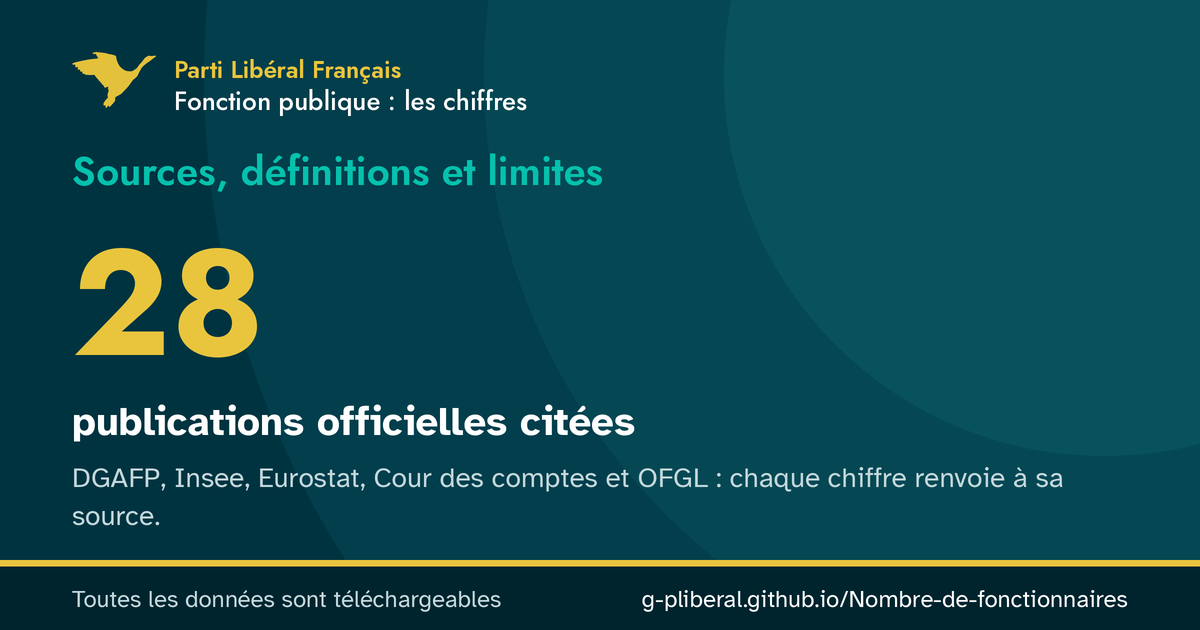
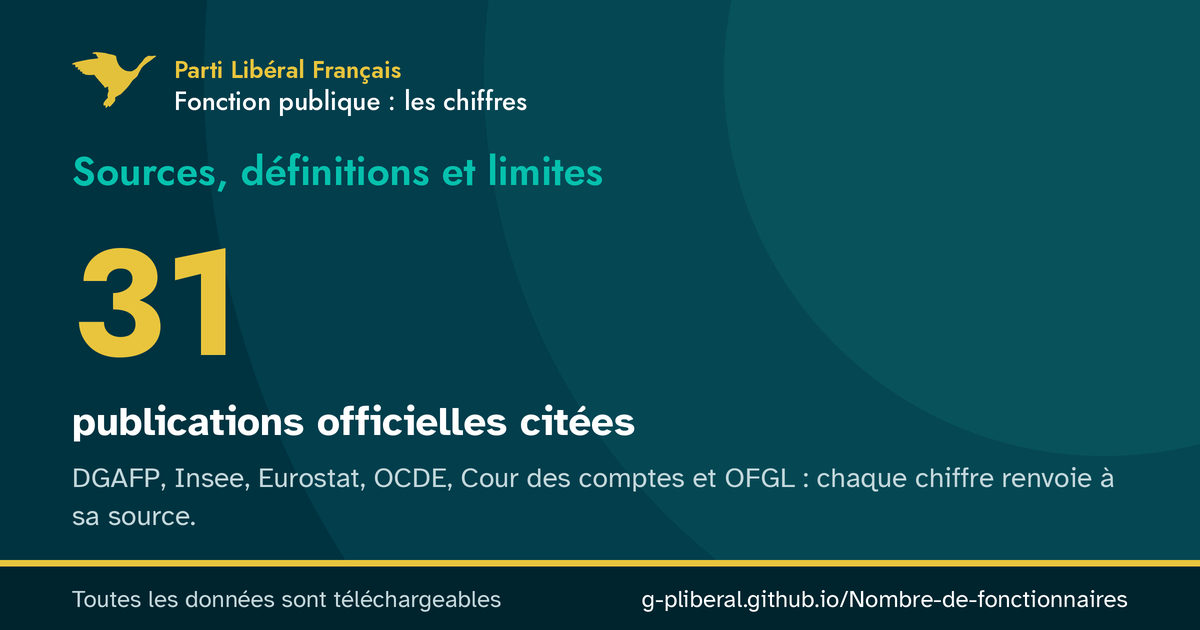
En Europe : chiffres de la page reliés à construire_donnees.py, image de partage, test d'accessibilité
- Descriptions de partage (data-modele), date du pied de page et effectif DGAFP
  contrats aidés compris (nouvelle clé large_fp_millions, calculée depuis le CSV DGAFP)
  remplis par le script, comme sur les autres pages.
- Image de partage de la page (chiffres lus dans donnees/site/europe.js).
- europe.html ajoutée au test d'accessibilité.
- Suppression d'une définition en double de lire_js().

Claude-Session: https://claude.ai/code/session_01FVFLAiLkMjKCEYqN1RL9PT

Changed region(s): [[0.3083, 0.7238, 0.925, 0.7841], [0.0617, 0.3921, 0.2158, 0.573], [0.0617, 0.8143, 0.1542, 0.8444]]

diff --git a/donnees/site/national.js b/donnees/site/national.js
@@ -1,3 +1,3 @@
 /* Fichier généré par outils/construire_donnees.py — ne pas modifier à la main. */
 window.PLF_DONNEES = window.PLF_DONNEES || {};
[2 lines of base64/hex data omitted]

diff --git a/europe.html b/europe.html
@@ -4,12 +4,24 @@
 <meta charset="utf-8">
 <meta name="viewport" content="width=device-width, initial-scale=1">
 <title>L'emploi public en France et en Europe – Fonction publique : les chiffres</title>
-<meta name="description" content="En 2024, les administrations publiques emploient 20,9 % des personnes en emploi en France, 11,9 % en Allemagne et 28,4 % en Suède : comparaison européenne de l'emploi public d'après l'OCDE et Eurostat, sur un périmètre commun, avec ses limites.">
+<meta name="description" content="En 2024, les administrations publiques emploient 20,9 % des personnes en emploi en France, 11,9 % en Allemagne et 28,4 % en Suède : comparaison européenne de l'emploi public d'après l'OCDE et Eurostat, sur un périmètre commun, avec ses limites." data-modele="En {eu_annee}, les administrations publiques emploient {eu_fr_part} des personnes en emploi en France, {eu_de_part} en Allemagne et {eu_se_part} en Suède : comparaison européenne de l'emploi public d'après l'OCDE et Eurostat, sur un périmètre commun, avec ses limites.">
 <meta name="theme-color" content="#003340">
 <meta property="og:title" content="Plus d'agents publics que nos voisins ?">
-<meta property="og:description" content="En 2024, les administrations publiques emploient 20,9 % des personnes en emploi en France, 11,9 % en Allemagne et 28,4 % en Suède : comparaison européenne de l'emploi public d'après l'OCDE et Eurostat, sur un périmètre commun, avec ses limites.">
+<meta property="og:description" content="En 2024, les administrations publiques emploient 20,9 % des personnes en emploi en France, 11,9 % en Allemagne et 28,4 % en Suède : comparaison européenne de l'emploi public d'après l'OCDE et Eurostat, sur un périmètre commun, avec ses limites." data-modele="En {eu_annee}, les administrations publiques emploient {eu_fr_part} des personnes en emploi en France, {eu_de_part} en Allemagne et {eu_se_part} en Suède : comparaison européenne de l'emploi public d'après l'OCDE et Eurostat, sur un périmètre commun, avec ses limites.">
 <meta property="og:type" content="website">
 <meta property="og:locale" content="fr_FR">
+<!-- partage:debut -->
+<meta property="og:site_name" content="Fonction publique : les chiffres">
+<meta property="og:url" content="https://g-pliberal.github.io/Nombre-de-fonctionnaires/europe.html">
+<meta property="og:image" content="https://g-pliberal.github.io/Nombre-de-fonctionnaires/assets/img/partage/europe.png">
+<meta property="og:image:type" content="image/png">
+<meta property="og:image:width" content="1200">
+<meta property="og:image:height" content="630">
+<meta property="og:image:alt" content="Plus d&#x27;agents publics que nos voisins ? 20,9 % de l&#x27;emploi est dans les administrations publiques en France (2024). 11,9 % en Allemagne, 28,4 % en Suède. France : 8e sur 25.">
+<meta name="twitter:card" content="summary_large_image">
+<meta name="twitter:image" content="https://g-pliberal.github.io/Nombre-de-fonctionnaires/assets/img/partage/europe.png">
+<meta name="twitter:image:alt" content="Plus d&#x27;agents publics que nos voisins ? 20,9 % de l&#x27;emploi est dans les administrations publiques en France (2024). 11,9 % en Allemagne, 28,4 % en Suède. France : 8e sur 25.">
+<!-- partage:fin -->
 <link rel="icon" href="assets/img/logo-plf.svg" type="image/svg+xml">
 <link rel="preload" href="assets/fonts/jost-latin-variable.woff2" as="font" type="font/woff2" crossorigin>
 <link rel="stylesheet" href="assets/css/style.css">
@@ -189,7 +201,7 @@
     <h2 id="titre-perimetre">Ce que l'on compare… et ce que l'on ne compare pas</h2>
     <ul class="liste-lecture">
       <li><strong>Pas les «&nbsp;fonctionnaires&nbsp;», mais les administrations publiques.</strong> Le statut de fonctionnaire n'existe pas partout et n'a pas le même sens d'un pays à l'autre. La seule définition commune est celle des comptes nationaux (système européen des comptes SEC 2010)&nbsp;: les «&nbsp;administrations publiques&nbsp;» regroupent l'État, les collectivités locales et la sécurité sociale, ainsi que les organismes qu'ils contrôlent et qui ne vendent pas leurs services. Tous les salariés en font partie, fonctionnaires ou non.</li>
-      <li><strong>Un périmètre plus large que la fonction publique française.</strong> Pour la France, l'OCDE reprend les chiffres de l'Insee&nbsp;: <span data-cle="eu_fr_emploi">6,41 millions</span> de personnes en <span data-cle="eu_annee">2024</span>, contre 5,87 millions d'agents de la fonction publique (contrats aidés compris) fin 2024 selon la DGAFP. Les comptes nationaux comptent en plus notamment les salariés des caisses de sécurité sociale (CAF, CPAM…) et d'autres organismes publics hors fonction publique, et mesurent l'emploi en moyenne sur l'année. <a href="index.html#au-dela">L'emploi public au sens large</a>.</li>
+      <li><strong>Un périmètre plus large que la fonction publique française.</strong> Pour la France, l'OCDE reprend les chiffres de l'Insee&nbsp;: <span data-cle="eu_fr_emploi">6,41 millions</span> de personnes en <span data-cle="eu_annee">2024</span>, contre <span data-cle="large_fp_millions">5,87 millions</span> d'agents de la fonction publique (contrats aidés compris) fin <span data-cle="large_annee">2024</span> selon la DGAFP. Les comptes nationaux comptent en plus notamment les salariés des caisses de sécurité sociale (CAF, CPAM…) et d'autres organismes publics hors fonction publique, et mesurent l'emploi en moyenne sur l'année. <a href="index.html#au-dela">L'emploi public au sens large</a>.</li>
       <li><strong>Les entreprises publiques ne sont comptées nulle part.</strong> SNCF, La Poste, EDF ou leurs équivalents étrangers sont des entreprises&nbsp;: leurs salariés ne font pas partie des administrations publiques, quel que soit le pays.</li>
       <li><strong>Une même mission peut être publique ici et privée ailleurs.</strong> Hôpitaux, écoles, maisons de retraite ou aide sociale sont, selon les pays, gérés par des administrations ou par des organismes privés (associations, fondations, entreprises) financés sur fonds publics. Seuls les premiers sont comptés. Un pays qui confie ces services à des organismes privés affiche moins d'emplois publics sans forcément dépenser moins&nbsp;: comparer aussi les <a href="masse-salariale.html#europe">rémunérations publiques en % du PIB</a>.</li>
       <li><strong>Des personnes, pas des équivalents temps plein.</strong> Un agent à mi-temps compte pour un. Les pays où le temps partiel est fréquent dans le secteur public paraissent donc un peu plus administrés qu'ils ne le seraient en équivalents temps plein&nbsp;; la série de l'OCDE est exprimée en personnes pour tous les pays.</li>
@@ -236,7 +248,7 @@
       </div>
     </div>
     <div class="pied__bas">
-      <span>Données mises à jour le 5 novembre 2026. Contenus réutilisables en citant la source.</span>
+      <span>Données mises à jour le <span data-cle="date_maj">15 novembre 2026</span>. Contenus réutilisables en citant la source.</span>
       <span><a href="methode.html#accessibilite">Accessibilité : partiellement conforme</a> · Aucun cookie, aucun traceur</span>
     </div>
   </div>

diff --git a/methode.html b/methode.html
@@ -17,10 +17,10 @@
 <meta property="og:image:type" content="image/png">
 <meta property="og:image:width" content="1200">
 <meta property="og:image:height" content="630">
-<meta property="og:image:alt" content="Sources, définitions et limites 28 publications officielles citées. DGAFP, Insee, Eurostat, Cour des comptes et OFGL : chaque chiffre renvoie à sa source.">
+<meta property="og:image:alt" content="Sources, définitions et limites 31 publications officielles citées. DGAFP, Insee, Eurostat, OCDE, Cour des comptes et OFGL : chaque chiffre renvoie à sa source.">
 <meta name="twitter:card" content="summary_large_image">
 <meta name="twitter:image" content="https://g-pliberal.github.io/Nombre-de-fonctionnaires/assets/img/partage/methode.png">
-<meta name="twitter:image:alt" content="Sources, définitions et limites 28 publications officielles citées. DGAFP, Insee, Eurostat, Cour des comptes et OFGL : chaque chiffre renvoie à sa source.">
+<meta name="twitter:image:alt" content="Sources, définitions et limites 31 publications officielles citées. DGAFP, Insee, Eurostat, OCDE, Cour des comptes et OFGL : chaque chiffre renvoie à sa source.">
 <!-- partage:fin -->
 <link rel="icon" href="assets/img/logo-plf.svg" type="image/svg+xml">
 <link rel="preload" href="assets/fonts/jost-latin-variable.woff2" as="font" type="font/woff2" crossorigin>
@@ -424,7 +424,7 @@
       </div>
     </div>
     <div class="pied__bas">
-      <span>Données mises à jour le <span data-cle="date_maj">5 novembre 2026</span>. Contenus réutilisables en citant la source.</span>
+      <span>Données mises à jour le <span data-cle="date_maj">15 novembre 2026</span>. Contenus réutilisables en citant la source.</span>
       <span><a href="methode.html#accessibilite">Accessibilité : partiellement conforme</a> · Aucun cookie, aucun traceur</span>
     </div>
   </div>

diff --git a/carte.html b/carte.html
@@ -155,7 +155,7 @@
       </div>
     </div>
     <div class="pied__bas">
-      <span>Données mises à jour le <span data-cle="date_maj">5 novembre 2026</span>. Contenus réutilisables en citant la source.</span>
+      <span>Données mises à jour le <span data-cle="date_maj">15 novembre 2026</span>. Contenus réutilisables en citant la source.</span>
       <span><a href="methode.html#accessibilite">Accessibilité : partiellement conforme</a> · Aucun cookie, aucun traceur</span>
     </div>
   </div>

diff --git a/composition.html b/composition.html
@@ -204,7 +204,7 @@
       </div>
     </div>
     <div class="pied__bas">
-      <span>Données mises à jour le <span data-cle="date_maj">5 novembre 2026</span>. Contenus réutilisables en citant la source.</span>
+      <span>Données mises à jour le <span data-cle="date_maj">15 novembre 2026</span>. Contenus réutilisables en citant la source.</span>
       <span><a href="methode.html#accessibilite">Accessibilité : partiellement conforme</a> · Aucun cookie, aucun traceur</span>
     </div>
   </div>

diff --git a/evolution.html b/evolution.html
@@ -180,7 +180,7 @@
       </div>
     </div>
     <div class="pied__bas">
-      <span>Données mises à jour le <span data-cle="date_maj">5 novembre 2026</span>. Contenus réutilisables en citant la source.</span>
+      <span>Données mises à jour le <span data-cle="date_maj">15 novembre 2026</span>. Contenus réutilisables en citant la source.</span>
       <span><a href="methode.html#accessibilite">Accessibilité : partiellement conforme</a> · Aucun cookie, aucun traceur</span>
     </div>
   </div>

diff --git a/index.html b/index.html
@@ -339,7 +339,7 @@
       </div>
     </div>
     <div class="pied__bas">
-      <span>Données mises à jour le <span data-cle="date_maj">5 novembre 2026</span>. Contenus réutilisables en citant la source.</span>
+      <span>Données mises à jour le <span data-cle="date_maj">15 novembre 2026</span>. Contenus réutilisables en citant la source.</span>
       <span><a href="methode.html#accessibilite">Accessibilité : partiellement conforme</a> · Aucun cookie, aucun traceur</span>
     </div>
   </div>

diff --git a/masse-salariale.html b/masse-salariale.html
@@ -552,7 +552,7 @@
       </div>
     </div>
     <div class="pied__bas">
-      <span>Données mises à jour le <span data-cle="date_maj">5 novembre 2026</span>. Contenus réutilisables en citant la source.</span>
+      <span>Données mises à jour le <span data-cle="date_maj">15 novembre 2026</span>. Contenus réutilisables en citant la source.</span>
       <span><a href="methode.html#accessibilite">Accessibilité : partiellement conforme</a> · Aucun cookie, aucun traceur</span>
     </div>
   </div>

diff --git a/retraites.html b/retraites.html
@@ -366,7 +366,7 @@
       </div>
     </div>
     <div class="pied__bas">
-      <span>Données mises à jour le <span data-cle="date_maj">5 novembre 2026</span>. Contenus réutilisables en citant la source.</span>
+      <span>Données mises à jour le <span data-cle="date_maj">15 novembre 2026</span>. Contenus réutilisables en citant la source.</span>
       <span><a href="methode.html#accessibilite">Accessibilité : partiellement conforme</a> · Aucun cookie, aucun traceur</span>
     </div>
   </div>

diff --git a/salaires.html b/salaires.html
@@ -336,7 +336,7 @@
       </div>
     </div>
     <div class="pied__bas">
-      <span>Données mises à jour le <span data-cle="date_maj">5 novembre 2026</span>. Contenus réutilisables en citant la source.</span>
+      <span>Données mises à jour le <span data-cle="date_maj">15 novembre 2026</span>. Contenus réutilisables en citant la source.</span>
       <span><a href="methode.html#accessibilite">Accessibilité : partiellement conforme</a> · Aucun cookie, aucun traceur</span>
     </div>
   </div>

diff --git a/outils/images_partage.py b/outils/images_partage.py
@@ -92,9 +92,11 @@ def cartes() -> dict:
     N = lire_site("national")
     M = lire_site("masse_salariale")
     R = lire_site("retraites")
+    U = lire_site("europe")
     D = lire_site("departements")
     n, m, r = Cles("national", N["cles"]), Cles("masse_salariale", M["cles"]), Cles("retraites", R["cles"])
     d = Cles("departements", D["cles"])
+    u = Cles("europe", U["cles"])
 
     def grand(texte):
         """« 5,85 millions » -> ("5,85", "millions")."""
@@ -158,6 +160,13 @@ def cartes() -> dict:
         libelle=f"d'euros de pensions versées en {r['rt_annee']}",
         detail=f"État, collectivités et hôpitaux : {r['rt_pct_pib']} du PIB.",
         source="Source : DGAFP",
+    )
+    c["europe"] = dict(
+        question="Plus d'agents publics que nos voisins ?",
+        valeur=(u["eu_fr_part"], ""),
+        libelle=f"de l'emploi est dans les administrations publiques en France ({u['eu_annee']})",
+        detail=f"{u['eu_de_part']} en Allemagne, {u['eu_se_part']} en Suède. France : {u['eu_fr_rang_part']}.",
+        source="Sources : OCDE, Eurostat, Insee",
     )
     c["methode"] = dict(
         question="Sources, définitions et limites",

diff --git a/outils/construire_donnees.py b/outils/construire_donnees.py
@@ -298,6 +298,8 @@ def construire_national(cat: dict) -> dict:
         "total_1996_actuelle": millions(actu[1996]["total"]),
         "total_1996_historique": millions(hist[1996]["total"]),
         "large_annee": str(a_large),
+        # Fonction publique, contrats aidés compris (somme des deux lignes DGAFP)
+        "large_fp_millions": millions(1000 * sum(l["milliers"] for l in large if l["ensemble"] == "Fonction publique")),
         "emp_annee": str(a_emp),
         **{c: arrondi_effectif(emp[k]) for k, c in cles_emp.items()},
         "emp_education_part_fpe": fr(100 * emp[("fpe", "Éducation, enseignement et recherche")] / emp_fpe, 0) + " %",
